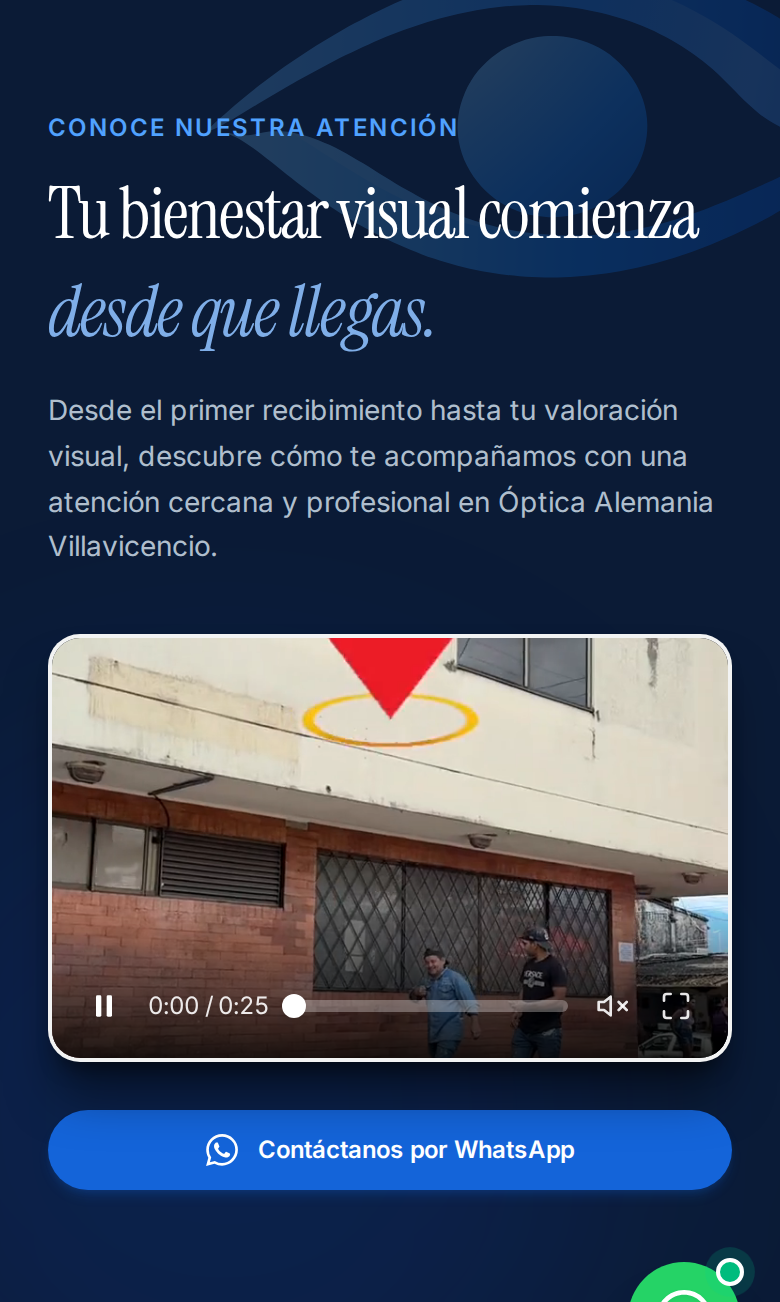
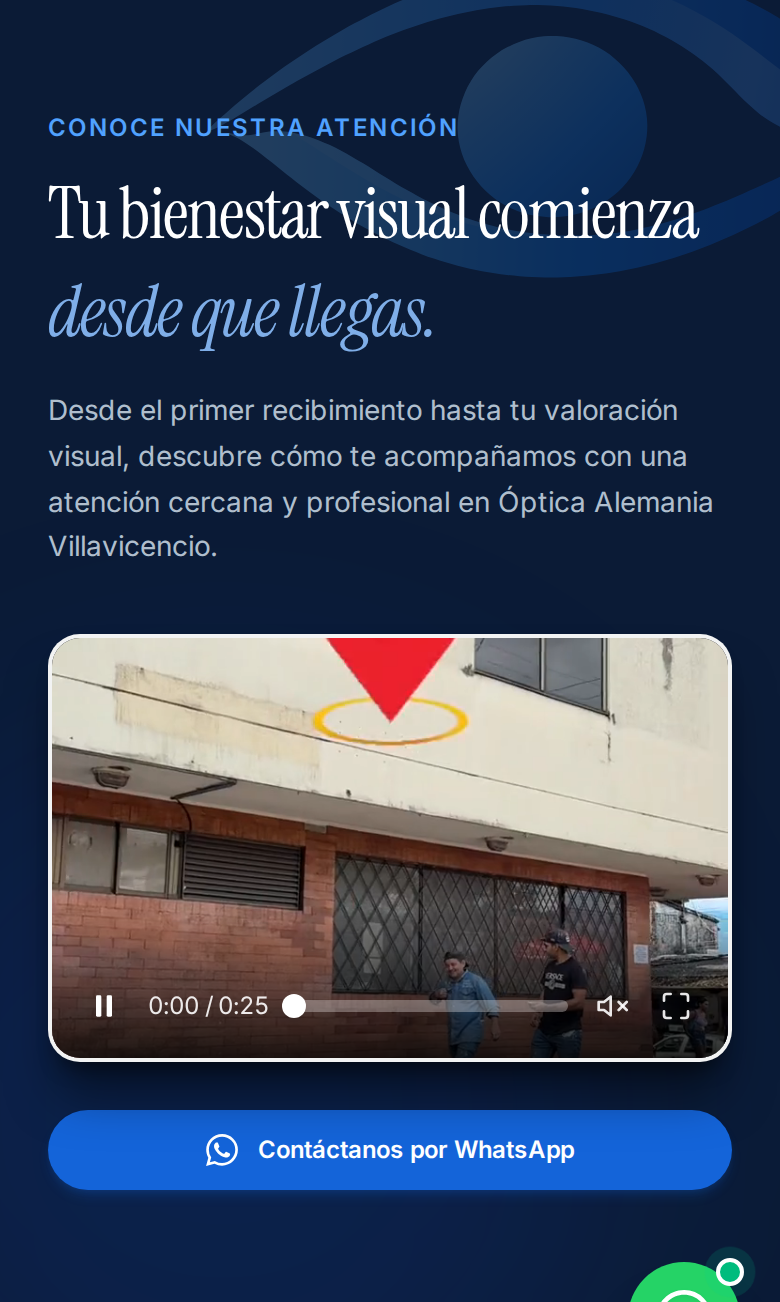
feat(sanity): integrate videoAtencion from Sanity CMS into arrival section

Changed region(s): [[0.0615, 0.4916, 0.9538, 0.8295], [0.8308, 0.4916, 0.8615, 0.553]]

diff --git a/src/lib/sanity/videos.ts b/src/lib/sanity/videos.ts
@@ -10,10 +10,18 @@ export interface VideoCMS {
 // Videos de la página Inicio
 export async function obtenerVideosInicio() {
   const datos = await sanityClient.fetch<{
+    atencion: VideoCMS | null;
     comoLlegar: VideoCMS | null;
     procedimientos: VideoCMS[] | null;
   } | null>(`
     *[_type == "inicioMultimedia"][0] {
+      "atencion": videoAtencionReferencia->{
+        _id,
+        titulo,
+        "url": archivo.asset->url,
+        "portada": portada.asset->url
+      },
+
       "comoLlegar": videoComoLlegarReferencia->{
         _id,
         titulo,
@@ -31,6 +39,7 @@ export async function obtenerVideosInicio() {
   `);
 
   return {
+    atencion: datos?.atencion ?? null,
     comoLlegar: datos?.comoLlegar ?? null,
     procedimientos:
       (datos?.procedimientos ?? []).filter(
